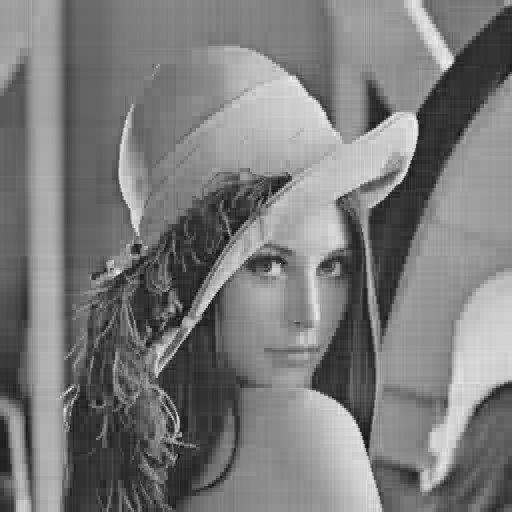
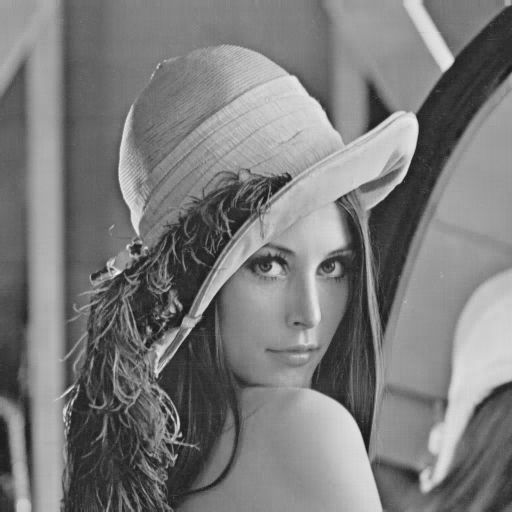
compression improved

diff --git a/Haar.py b/Haar.py
@@ -14,10 +14,10 @@ def kd_test_decomp_recon_on_1d_array():
     c=np.array([9.,7.,2.,6.])
     print(c)
     print("decomp")
-    c=_normalized_decomposition(c, False)
+    c=_decomposition(c, False)
     print(c)
     print("recon")
-    c=_normalized_reconstruction(c, False)
+    c=_reconstruction(c, False)
     print(c)
     return
 
@@ -80,7 +80,9 @@ def kd_test_compression_on_image():
     maxi=0
 
     print("compression")
-    image_values=compression(image_values)
+    #image_values=compression(image_values, squared_error_stollnitz=20000)
+    image_values=compression(image_values, number_of_coeffs_left=100000)
+    #image_values=compression(image_values, squared_error=20000000)
 
     # save img
     image_values=image_values.astype(np.uint8)
@@ -89,10 +91,11 @@ def kd_test_compression_on_image():
 
     return
 
-def compression(image_values):
+def compression(image_values, squared_error=None, squared_error_stollnitz=None, number_of_coeffs_left=None):
     # return compressed image_values
 
     # normalized 2d decomp.
+    print("- decomposition")
     image_values=decomposition_2d(image_values, normalized=True, standard=True)
     # one array of coefficients
     coefficients=image_values.flatten()
@@ -100,39 +103,106 @@ def compression(image_values):
     # commented since it can become very slow
     # coefficients[::-1].sort()
 
-    # either by max error
-    thres_min=np.abs(coefficients).min() # abs(coefficients[len(coefficients)-1])
-    thres_max=np.abs(coefficients).max() # abs(coefficients[0])
-    threshold = (thres_min + thres_max) / 2.
-    epsilon_squared=20000000.0
-    # find threashold
-    found_thres=False
-    while not found_thres:
-        threshold=(thres_min+thres_max)/2.
-        sum_squared=0
-        for i in range(0, coefficients.size):
-            if abs(coefficients[i])<threshold:
-                sum_squared+=math.pow(coefficients[i],2)
-        if sum_squared<epsilon_squared:
-            thres_min=threshold
-        else:
-            thres_max=threshold
-        #until thres_min=thres_max
-        found_thres=(thres_max-thres_min)<0.1
+    if squared_error is not None:
+        # either by max error
+        thres_min=np.abs(coefficients).min() # abs(coefficients[len(coefficients)-1])
+        thres_max=np.abs(coefficients).max() # abs(coefficients[0])
+        threshold = (thres_min + thres_max) / 2.
+        epsilon_squared=squared_error
+        sum_squared = 0
+        # find threashold
+        print("- find threshold by max squared error of {}".format(epsilon_squared))
+        found_thres=False
+        while not found_thres:
+            threshold=(thres_min+thres_max)/2.
+            sum_squared=0
+            for i in range(0, coefficients.size):
+                if abs(coefficients[i])<threshold:
+                    sum_squared+=math.pow(coefficients[i],2)
+            if sum_squared<epsilon_squared:
+                thres_min=threshold
+            else:
+                thres_max=threshold
+            #until thres_min=thres_max
+            #print("min: {} max: {}".format(thres_min, thres_max))
+            found_thres=(thres_max-thres_min)<0.1
+        print("-- threshold: {} with squared error of {}".format(threshold, sum_squared))
 
+    #Stollnitz et al.
+    # "Another efficient approach to L_2 compression is to repeatedly
+    # discard all coefficients smaller in magnitude than a threshold
+    # increasing the threshold by a factor of two in each iteration
+    # until the allowable level of error is achieved"
+    if squared_error_stollnitz is not None:
+        print("- find threshold by max squared error of {} (Stollnitz et al.)".format(squared_error_stollnitz))
+        # make sure min is not zero
+        threshold=np.abs(coefficients[np.nonzero(coefficients)]).min()
+        sum_squared = 0
+        last_sum_squared=0
+        found_thres=False
+        while True:
+            #print(threshold)
+            sum_squared = 0
+            for i in range(0, coefficients.size):
+                if abs(coefficients[i]) < threshold:
+                    sum_squared += math.pow(coefficients[i], 2)
+            if sum_squared<=squared_error_stollnitz:
+                threshold*=2
+                last_sum_squared=sum_squared
+            else:
+                break
+        print("-- threshold: {} with squared error of {}".format(threshold, last_sum_squared))
+        print("-- for threshold*2={} squared error would be {}".format(threshold*2, sum_squared))
 
     # or max coefficients
     # returning threshold also?
+    if number_of_coeffs_left is not None:
+        print("-number of coeffs: {}".format(number_of_coeffs_left))
+        # make sure min is not zero
+        threshold=np.abs(coefficients[np.nonzero(coefficients)]).min()
+        to_truncate=coefficients.size-number_of_coeffs_left
+        if(to_truncate<0):
+            print("-- all coefficients will stay")
+        else:
+            quit_loop=False
+            count=0
+            while True:
+                if not math.isinf(threshold*2):
+                    threshold*=2
+                else:
+                    threshold*=1.2
+                #print(threshold)
+                before=np.count_nonzero(image_values)
+                image_values[np.abs(image_values) < threshold] = 0
+                after=np.count_nonzero(image_values)
+                diff=before-after
+                count+=diff
+                print("count: {}, threshold: {}".format(count, threshold))
+                #for (row, col), value in np.ndenumerate(image_values):
+                #    if abs(value)<threshold and value!=0:
+                #        #print("threshold: {} value: {}".format(threshold, image_values[row,col]))
+                #        image_values[row,col]=0.0
+                #        count+=1
+                if count>=to_truncate:
+                    quit_loop=True
+                    break
+                if quit_loop:
+                    break
+            print("-- truncated {} values ({} %), {} stay ({} %)".format(count, (count/coefficients.size*100), number_of_coeffs_left, number_of_coeffs_left/coefficients.size*100))
 
-    # truncate small values in image_values
-    count=0
-    for (row, col), value in np.ndenumerate(image_values):
-        if abs(value)<threshold:
-            image_values[row, col]=0
-            count+=1
-    print("truncated {} values ({} %)".format(count, (count/coefficients.size*100)))
+    else:
+        #only if not number of coeffs
+        # truncate small values in image_values
+        print("- truncate values smaller than threshold")
+        count=0
+        for (row, col), value in np.ndenumerate(image_values):
+            if abs(value)<threshold:
+                image_values[row, col]=0
+                count+=1
+        print("-- truncated {} values ({} %)".format(count, (count/coefficients.size*100)))
 
     # recon image
+    print("- reconstruction")
     image_values=reconstruction_2d(image_values, normalized=True, standard=True)
 
     # after return
@@ -144,9 +214,9 @@ def decomposition_2d(image_values, normalized=True, standard=True):
     #print(image_values.shape)
     if standard:
         for i in range(0, image_values.shape[0]):
-            image_values[i] = _normalized_decomposition(image_values[i], normalized)
+            image_values[i] = _decomposition(image_values[i], normalized)
         for i in range(0, image_values.shape[1]):
-            image_values[:, i] = _normalized_decomposition(image_values[:, i], normalized)
+            image_values[:, i] = _decomposition(image_values[:, i], normalized)
         return image_values
 
     #nonstandard
@@ -156,9 +226,9 @@ def decomposition_2d(image_values, normalized=True, standard=True):
         until=mindim
         while(until>=2):
             for i in range(0, int(until)):
-                image_values[i] = _normalized_decomposition_step(image_values[i], until, normalized)
+                image_values[i] = _decomposition_step(image_values[i], until, normalized)
             for i in range(0, int(until)):
-                image_values[:, i] = _normalized_decomposition_step(image_values[:, i], until, normalized)
+                image_values[:, i] = _decomposition_step(image_values[:, i], until, normalized)
             until/=2
         return image_values
 
@@ -169,9 +239,9 @@ def reconstruction_2d(image_values, normalized=True, standard=True):
 
     if standard:
         for i in range(0, image_values.shape[1]):
-            image_values[:, i] = _normalized_reconstruction(image_values[:, i], normalized)
+            image_values[:, i] = _reconstruction(image_values[:, i], normalized)
         for i in range(0, image_values.shape[0]):
-            image_values[i] = _normalized_reconstruction(image_values[i], normalized)
+            image_values[i] = _reconstruction(image_values[i], normalized)
         return image_values
 
     #nonstandard
@@ -180,9 +250,9 @@ def reconstruction_2d(image_values, normalized=True, standard=True):
         until=2
         while(until<=mindim):
             for i in range(0, int(until)):
-                image_values[:, i] = _normalized_reconstruction_step(image_values[:, i], until, normalized)
+                image_values[:, i] = _reconstruction_step(image_values[:, i], until, normalized)
             for i in range(0, int(until)):
-                image_values[i] = _normalized_reconstruction_step(image_values[i], until, normalized)
+                image_values[i] = _reconstruction_step(image_values[i], until, normalized)
             until*=2
         image_values = np.multiply(image_values, mindim)
         return image_values
@@ -194,7 +264,7 @@ def _read_min_dim(image_values):
     else:
         return image_values.shape[1]
 
-def _normalized_decomposition(coefficients, normalized=True):
+def _decomposition(coefficients, normalized=True):
     # Haar decomposition of array inplace
 
     #normalize
@@ -208,12 +278,12 @@ def _normalized_decomposition(coefficients, normalized=True):
 
     while until>=2:
         #print(coefficients)
-        coefficients=_normalized_decomposition_step(coefficients, until, normalized)
+        coefficients=_decomposition_step(coefficients, until, normalized)
         until/=2
 
     return coefficients
 
-def _normalized_decomposition_step(coefficients, until, normalized=True):
+def _decomposition_step(coefficients, until, normalized=True):
     # One step of Haar decomposition of array inplace
 
     # apply changes on copy first
@@ -245,14 +315,14 @@ def _normalized_decomposition_step(coefficients, until, normalized=True):
     coefficients=copy
     return coefficients
 
-def _normalized_reconstruction(coefficients, normalized=True):
+def _reconstruction(coefficients, normalized=True):
     # Haar reconstruction of array inplace
 
     # start with 2 and go up to whole size
     until = 2
     while until <= coefficients.size:
         #print(coefficients)
-        coefficients = _normalized_reconstruction_step(coefficients, until, normalized)
+        coefficients = _reconstruction_step(coefficients, until, normalized)
         until *= 2
 
     # undo normalize
@@ -262,7 +332,7 @@ def _normalized_reconstruction(coefficients, normalized=True):
 
     return coefficients
 
-def _normalized_reconstruction_step(coefficients, until, normalized=True):
+def _reconstruction_step(coefficients, until, normalized=True):
     # One step of Haar reconstruction of array inplace
 
     # apply changes on copy first
